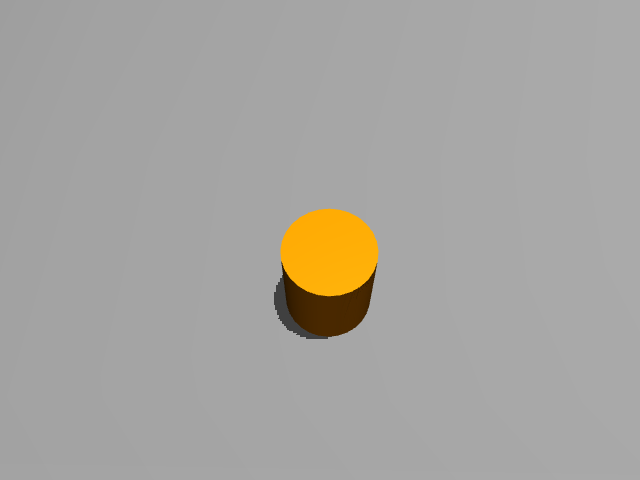
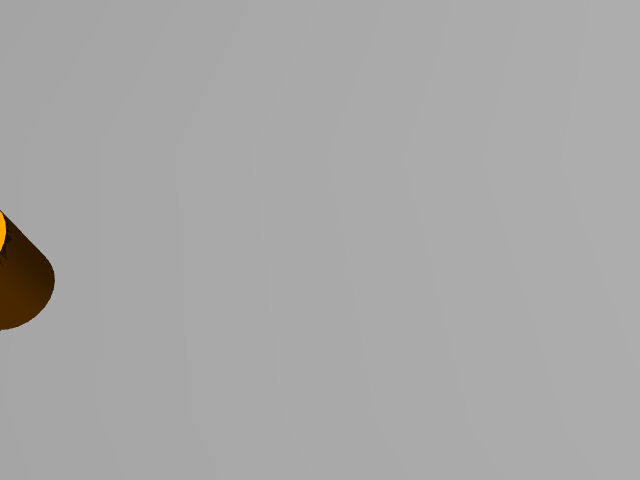
稍微改善了抖动问题，但还没完全解决

Changed region(s): [[0.4062, 0.4375, 0.5938, 0.7188], [0.0, 0.4375, 0.0938, 0.6875]]

diff --git a/custom_envs/scripts/navigation/navigate_mujoco.py b/custom_envs/scripts/navigation/navigate_mujoco.py
@@ -262,6 +262,13 @@ def main():
     _pos_w_at_scan   = None  # SCAN 完成时的机器人世界位置
     _quat_w_at_scan  = None  # SCAN 完成时的机器人四元数
     _pan_neg_x_goal  = None  # PAN_NEG_X 目标坐标
+    # PAN 平移统一平滑控制状态：用加速度限幅 + 停车滞回，避免 0↔最小步速来回跳。
+    _pan_ctrl_state   = None
+    _pan_cmd_vx       = 0.0
+    _pan_cmd_vy       = 0.0
+    _pan_cmd_wz       = 0.0
+    _pan_settling     = False
+    _pan_settle_count = 0
     _dest_goal_sent  = False # NAV2_DEST 是否已发送 goal
     _rotate_j_target = None  # ROTATE 目标关节角
     _rotate_j1_start = None
@@ -408,6 +415,87 @@ def main():
 
     def _yaw_err_to(target_yaw, current_yaw):
         return _wrap_angle(target_yaw - current_yaw)
+
+    # ── PAN 统一平滑速度控制 ──
+    # locomotion policy 在很小的非零速度附近容易在“站立/迈步”之间反复切换；旧代码又
+    # 直接把速度从 0 跳到 0.10m/s，因此会产生明显抖动。这里保留 0.10m/s 的有效步速，
+    # 但通过命令斜坡(slew-rate)平滑进出，并用 settling 滞回防止目标附近反复重启。
+    _PAN_MIN_MOVE_SPEED = 0.10       # m/s；真正移动时不长期停留在更低的不稳定步速
+    _PAN_DV_PER_STEP    = 0.012      # m/s per policy step；约0.6m/s^2（dt≈20ms）
+    _PAN_DW_PER_STEP    = 0.040      # rad/s per policy step；yaw保持也做斜坡
+    _PAN_YAW_KP         = 1.2
+    _PAN_YAW_MAX        = 0.35
+    _PAN_YAW_DEADBAND   = math.radians(1.0)
+    _PAN_SETTLE_SPEED   = 0.06       # m/s；底盘实际水平速度低于此值才允许切状态
+    _PAN_SETTLE_STEPS   = 8          # 连续稳定约0.16s后才切状态
+
+    def _slew(cur, target, max_delta):
+        return float(cur + np.clip(float(target) - float(cur), -max_delta, max_delta))
+
+    def _pan_axis_control(
+        pan_state, world_err, body_axis, body_sign, target_yaw,
+        pos_tol, resume_tol, kp, vmax, yaw_now, base_lin_vel,
+    ):
+        """统一 PAN 控制。
+
+        world_err  = 世界坐标目标 - 当前坐标（只传本阶段控制的那一轴）
+        body_axis  = 'vx' 或 'vy'
+        body_sign  = 世界正方向速度映射到该 body cmd 的符号
+        settling   = 一旦进入 pos_tol 就只减速停车；除非漂出更大的 resume_tol 才重新走，
+                     从而避免目标附近 0 ↔ 0.10m/s 抖动。
+        """
+        nonlocal _pan_ctrl_state, _pan_cmd_vx, _pan_cmd_vy, _pan_cmd_wz
+        nonlocal _pan_settling, _pan_settle_count
+
+        if _pan_ctrl_state != pan_state:
+            _pan_ctrl_state = pan_state
+            _pan_cmd_vx = 0.0
+            _pan_cmd_vy = 0.0
+            _pan_cmd_wz = 0.0
+            _pan_settling = False
+            _pan_settle_count = 0
+
+        ae = abs(float(world_err))
+        if _pan_settling:
+            # 只有明显漂出更宽的滞回区才重新起步，防止一步一停。
+            if ae > float(resume_tol):
+                _pan_settling = False
+                _pan_settle_count = 0
+        elif ae <= float(pos_tol):
+            _pan_settling = True
+            _pan_settle_count = 0
+
+        if _pan_settling:
+            axis_target = 0.0
+        else:
+            mag = min(float(vmax), max(_PAN_MIN_MOVE_SPEED, float(kp) * ae))
+            world_v_target = math.copysign(mag, float(world_err))
+            axis_target = float(body_sign) * world_v_target
+
+        vx_target = axis_target if body_axis == 'vx' else 0.0
+        vy_target = axis_target if body_axis == 'vy' else 0.0
+        _pan_cmd_vx = _slew(_pan_cmd_vx, vx_target, _PAN_DV_PER_STEP)
+        _pan_cmd_vy = _slew(_pan_cmd_vy, vy_target, _PAN_DV_PER_STEP)
+
+        yaw_err = _yaw_err_to(float(target_yaw), float(yaw_now))
+        if abs(yaw_err) <= _PAN_YAW_DEADBAND:
+            wz_target = 0.0
+        else:
+            wz_target = float(np.clip(_PAN_YAW_KP * yaw_err,
+                                      -_PAN_YAW_MAX, _PAN_YAW_MAX))
+        _pan_cmd_wz = _slew(_pan_cmd_wz, wz_target, _PAN_DW_PER_STEP)
+
+        _vxy = float(np.linalg.norm(np.asarray(base_lin_vel, dtype=np.float64)[:2]))
+        if (_pan_settling and _vxy <= _PAN_SETTLE_SPEED
+                and abs(yaw_err) <= math.radians(3.0)):
+            _pan_settle_count += 1
+        else:
+            _pan_settle_count = 0
+        done = (_pan_settle_count >= _PAN_SETTLE_STEPS)
+
+        return (_pan_cmd_vx, _pan_cmd_vy, _pan_cmd_wz, done,
+                dict(err=ae, vxy=_vxy, yaw_err=yaw_err,
+                     settling=_pan_settling, settle_count=_pan_settle_count))
 
     def _arm_step(q6):
         """设置机械臂目标角（6维）。"""
@@ -1095,105 +1183,92 @@ def main():
                 cmd_vx = 0.0; cmd_vy = 0.0
                 cmd_wz = float(np.clip(2.0 * err, -1.2, 1.2))
                 if abs(err) < 0.05:
-                    state = PipelineState.PAN_VY
+                    state = PipelineState.PAN_VX
                     state_step = 0
                     print("[MJ] ALIGN_YAW_1 done -> PAN_VX")
 
             elif state == PipelineState.PAN_VX:
-                # PD 控制：精调机器人 Y 方向位置（朝向 -Y 时 vx 对应世界 -Y 运动，需取反）
+                # 世界 Y 精调。机器人已由 ALIGN_YAW_1 对齐到 +Y，因此 body vx 与 world +Y 同向。
                 _dy_w = float(args.goal[1]) - float(pos_w[1])
-                _dy_err = abs(_dy_w)
+                cmd_vx, cmd_vy, cmd_wz, _pan_done, _pd = _pan_axis_control(
+                    PipelineState.PAN_VX, _dy_w, 'vx', +1.0, math.pi / 2,
+                    pos_tol=0.08, resume_tol=0.16, kp=0.8, vmax=0.25,
+                    yaw_now=yaw, base_lin_vel=rs["lin_vel"])
                 if state_step == 1:
-                    print(f"[SM] PAN_VX start dy_err={_dy_err:.3f}m", flush=True)
-                if state_step % 50 == 0:
-                    print(f"[SM] PAN_VX step {state_step}: dy_err={_dy_err:.3f}m", flush=True)
-                _v_cap = float(np.clip(0.4 * _dy_err, 0.0, 0.3))
-                if _v_cap < 0.10:  # 死区：速度过小时停止，避免 policy 步态不稳
-                    _v_cap = 0.0
-                # 面向+Y时 cmd_vx>0 => 世界y增大，同向
-                cmd_vx = float(np.clip(math.copysign(_v_cap, _dy_w), -0.3, 0.15))
-                cmd_vy = 0.0; cmd_wz = 0.0
+                    print(f"[SM] PAN_VX start dy_err={_pd['err']:.3f}m", flush=True)
+                if state_step % 25 == 0:
+                    print(f"[SM] PAN_VX step {state_step}: dy_err={_pd['err']:.3f}m "
+                          f"cmd=({cmd_vx:+.3f},{cmd_vy:+.3f},{cmd_wz:+.3f}) "
+                          f"vxy={_pd['vxy']:.3f} settling={int(_pd['settling'])} "
+                          f"settle={_pd['settle_count']}/{_PAN_SETTLE_STEPS}", flush=True)
                 state_step += 1
-                if _dy_err < 0.10 or state_step >= 400:
-                    print("[SM] PAN_VX done -> PAN_VY", flush=True)
+                if _pan_done or state_step >= 500:
+                    _why = "settled" if _pan_done else "timeout"
+                    print(f"[SM] PAN_VX done ({_why}) -> PAN_VY", flush=True)
                     state = PipelineState.PAN_VY
                     state_step = 0
 
             elif state == PipelineState.PAN_VY:
-                # PD 控制：精调机器人 X 方向位置（朝向 -Y 时 vy>0 => 世界+X，故同向）
-                # X 目标在 goal_x 基础上偏移 +0.5m（让机器人站在桌子侧面合适位置）
+                # 世界 X 精调：目标为 goal_x+0.5m。朝 +Y 时 body +vy(左移) = world -X，故符号取反。
                 _dx_w = float(args.goal[0]) + 0.5 - float(pos_w[0])
-                _dx_err = abs(_dx_w)
+                cmd_vx, cmd_vy, cmd_wz, _pan_done, _pd = _pan_axis_control(
+                    PipelineState.PAN_VY, _dx_w, 'vy', -1.0, math.pi / 2,
+                    pos_tol=0.10, resume_tol=0.20, kp=1.0, vmax=0.25,
+                    yaw_now=yaw, base_lin_vel=rs["lin_vel"])
                 if state_step == 1:
-                    print(f"[SM] PAN_VY start dx_err={_dx_err:.3f}m", flush=True)
-                if state_step % 50 == 0:
-                    print(f"[SM] PAN_VY step {state_step}: dx_err={_dx_err:.3f}m", flush=True)
-                _v_cap = float(np.clip(2.0 * _dx_err, 0.0, 0.3))
-                if _v_cap < 0.10:  # 死区：速度过小时停止，避免 policy 步态不稳
-                    _v_cap = 0.0
-                cmd_vx = 0.0
-                # 面向+Y时 cmd_vy>0 => 机器人左移 => 世界x减小，故取反
-                cmd_vy = float(np.clip(-math.copysign(_v_cap, _dx_w), -0.3, 0.15))
-                cmd_wz = 0.0
+                    print(f"[SM] PAN_VY start dx_err={_pd['err']:.3f}m", flush=True)
+                if state_step % 25 == 0:
+                    print(f"[SM] PAN_VY step {state_step}: dx_err={_pd['err']:.3f}m "
+                          f"cmd=({cmd_vx:+.3f},{cmd_vy:+.3f},{cmd_wz:+.3f}) "
+                          f"vxy={_pd['vxy']:.3f} settling={int(_pd['settling'])} "
+                          f"settle={_pd['settle_count']}/{_PAN_SETTLE_STEPS}", flush=True)
                 state_step += 1
-                if _dx_err < 0.12 or state_step >= 400:
-                    # ── 临时方案（2026-09-16）：跳过 PAN_VX_FINAL / ALIGN_YAW ──
-                    # 运控小速度指令抖动问题解决前，不再用速度指令做末段精调：
-                    #   x 保持 PAN_VY 结束时的值（被桌子挡住，已达物理可达位置）；
-                    #   y 直接瞬移到目标 goal_y；朝向一步对齐到 yaw=+π/2（直立）。
-                    # 注意：瞬移不符合物理实际，仅为绕过运控问题；修复运控后删除本块，
-                    # 恢复原流程 "PAN_VY -> PAN_VX_FINAL -> ALIGN_YAW -> ARM_INIT"。
-                    cmd_vx = 0.0; cmd_vy = 0.0; cmd_wz = 0.0
-                    _snap_pos = pos_w.copy()
-                    _snap_pos[1] = float(args.goal[1])        # y -> 目标位置（x/z 保持不变）
-                    _snap_quat = np.array(
-                        [math.cos(math.pi / 4), 0.0, 0.0, math.sin(math.pi / 4)],
-                        dtype=np.float64)                     # yaw=+π/2 直立四元数 (w,x,y,z)
-                    env.set_root_pose(_snap_pos, _snap_quat)  # 瞬移 base + 清零速度
-                    _frozen_pos  = _snap_pos.copy()           # 补上 ALIGN_YAW 原本保存的 FREEZE 锚点
-                    _frozen_quat = _snap_quat.copy()
-                    print(f"[SM] PAN_VY done -> SNAP {np.round(pos_w,3)} -> "
-                          f"{np.round(_snap_pos,3)} -> ARM_INIT", flush=True)
+                if _pan_done or state_step >= 500:
+                    _why = "settled" if _pan_done else "timeout"
+                    # 旧版因 PAN 抖动临时用 set_root_pose() 把 y 瞬移到目标；现在恢复物理精调流程。
+                    print(f"[SM] PAN_VY done ({_why}) -> PAN_VX_FINAL", flush=True)
                     state = PipelineState.ARM_INIT
                     state_step = 0
 
-            elif state == PipelineState.PAN_VX_FINAL:
-                # PAN_VY 之后的 Y 方向补正，消除侧移耦合引入的 Y 误差
-                _dy_w = float(args.goal[1]) - float(pos_w[1])
-                _dy_err = abs(_dy_w)
-                if state_step == 1:
-                    print(f"[SM] PAN_VX_FINAL start dy_err={_dy_err:.3f}m", flush=True)
-                if state_step % 50 == 0:
-                    print(f"[SM] PAN_VX_FINAL step {state_step}: dy_err={_dy_err:.3f}m", flush=True)
-                _v_cap = float(np.clip(0.4 * _dy_err, 0.0, 0.3))
-                if _v_cap < 0.10:  # 死区：速度过小时停止，避免 policy 步态不稳
-                    _v_cap = 0.1
-                cmd_vx = float(np.clip(math.copysign(_v_cap, _dy_w), -0.3, 0.15))
-                cmd_vy = 0.0; cmd_wz = 0.0
-                state_step += 1
-                if _dy_err < 0.10 or state_step >= 200:
-                    print("[SM] PAN_VX_FINAL done -> ALIGN_YAW", flush=True)
-                    state = PipelineState.ALIGN_YAW
-                    state_step = 0
+            # elif state == PipelineState.PAN_VX_FINAL:
+            #     # 侧移后再次补正世界 Y，消除 PAN_VY 产生的耦合误差。
+            #     _dy_w = float(args.goal[1]) - float(pos_w[1])
+            #     cmd_vx, cmd_vy, cmd_wz, _pan_done, _pd = _pan_axis_control(
+            #         PipelineState.PAN_VX_FINAL, _dy_w, 'vx', +1.0, math.pi / 2,
+            #         pos_tol=0.06, resume_tol=0.14, kp=0.8, vmax=0.22,
+            #         yaw_now=yaw, base_lin_vel=rs["lin_vel"])
+            #     if state_step == 1:
+            #         print(f"[SM] PAN_VX_FINAL start dy_err={_pd['err']:.3f}m", flush=True)
+            #     if state_step % 25 == 0:
+            #         print(f"[SM] PAN_VX_FINAL step {state_step}: dy_err={_pd['err']:.3f}m "
+            #               f"cmd=({cmd_vx:+.3f},{cmd_vy:+.3f},{cmd_wz:+.3f}) "
+            #               f"vxy={_pd['vxy']:.3f} settling={int(_pd['settling'])} "
+            #               f"settle={_pd['settle_count']}/{_PAN_SETTLE_STEPS}", flush=True)
+            #     state_step += 1
+            #     if _pan_done or state_step >= 350:
+            #         _why = "settled" if _pan_done else "timeout"
+            #         print(f"[SM] PAN_VX_FINAL done ({_why}) -> ALIGN_YAW", flush=True)
+            #         state = PipelineState.ALIGN_YAW
+            #         state_step = 0
 
-            elif state == PipelineState.ALIGN_YAW:
-                # 对齐到 +Y 方向（yaw = +π/2），面向桌子，然后进入 ARM_INIT
-                _yaw_err_align = _yaw_err_to(math.pi / 2, yaw)
-                if state_step == 1:
-                    print(f"[SM] ALIGN_YAW start: cur={math.degrees(yaw):.1f}deg", flush=True)
-                if state_step % 50 == 0:
-                    print(f"[SM] ALIGN_YAW step {state_step}: "
-                          f"err={math.degrees(_yaw_err_align):.1f}deg", flush=True)
-                cmd_vx = 0.0; cmd_vy = 0.0
-                cmd_wz = float(np.clip(100.0 * _yaw_err_align, -1.2, 1.2))
-                state_step += 1
-                if abs(_yaw_err_align) < 0.02 or state_step >= 600:
-                    print("[SM] ALIGN_YAW done -> ARM_INIT", flush=True)
-                    # 保存 FREEZE 锚点
-                    _frozen_pos  = pos_w.copy()
-                    _frozen_quat = quat_w.copy()
-                    state = PipelineState.ARM_INIT
-                    state_step = 0
+            # elif state == PipelineState.ALIGN_YAW:
+            #     # 对齐到 +Y 方向（yaw = +π/2），面向桌子，然后进入 ARM_INIT
+            #     _yaw_err_align = _yaw_err_to(math.pi / 2, yaw)
+            #     if state_step == 1:
+            #         print(f"[SM] ALIGN_YAW start: cur={math.degrees(yaw):.1f}deg", flush=True)
+            #     if state_step % 50 == 0:
+            #         print(f"[SM] ALIGN_YAW step {state_step}: "
+            #               f"err={math.degrees(_yaw_err_align):.1f}deg", flush=True)
+            #     cmd_vx = 0.0; cmd_vy = 0.0
+            #     cmd_wz = float(np.clip(100.0 * _yaw_err_align, -1.2, 1.2))
+            #     state_step += 1
+            #     if abs(_yaw_err_align) < 0.02 or state_step >= 600:
+            #         print("[SM] ALIGN_YAW done -> ARM_INIT", flush=True)
+            #         # 保存 FREEZE 锚点
+            #         _frozen_pos  = pos_w.copy()
+            #         _frozen_quat = quat_w.copy()
+            #         state = PipelineState.ARM_INIT
+            #         state_step = 0
 
             elif state == PipelineState.ARM_INIT:
                 # 机械臂插值到 ARM_SIDE_ANGLES，同时 FREEZE 根节点位姿。
@@ -2508,20 +2583,27 @@ def main():
                         state_step = 0
 
             elif state == PipelineState.PAN_NEG_X:
-                # PD 移动到 (pos[0]-0.5, pos[1]) 准备导航回放置点
-                _px_goal = pos_w[0] - 0.5
+                # LIFT 后先沿世界 -X 平移约 0.5m，再交给 Nav2。
+                # 当前朝向约 +Y：body +vy = world -X，因此 world-X 误差映射到 vy 时取反。
                 if _pan_neg_x_goal is None:
-                    _pan_neg_x_goal = _px_goal
-                _px_err = abs(pos_w[0] - _pan_neg_x_goal)
-                _pxv = float(np.clip(2.0 * (pos_w[0] - _pan_neg_x_goal), -0.3, 0.3))
-                cmd_vx = 0.0; cmd_vy = _pxv; cmd_wz = 0.0
+                    _pan_neg_x_goal = float(pos_w[0]) - 0.5
+                    print(f"[SM] PAN_NEG_X start: x={pos_w[0]:.3f} -> "
+                          f"goal={_pan_neg_x_goal:.3f} (-0.5m)", flush=True)
+                _px_w = float(_pan_neg_x_goal) - float(pos_w[0])
+                cmd_vx, cmd_vy, cmd_wz, _pan_done, _pd = _pan_axis_control(
+                    PipelineState.PAN_NEG_X, _px_w, 'vy', -1.0, math.pi / 2,
+                    pos_tol=0.03, resume_tol=0.08, kp=1.0, vmax=0.25,
+                    yaw_now=yaw, base_lin_vel=rs["lin_vel"])
                 _gripper_step(close=True)
-                if state_step % 50 == 0:
-                    print(f"[SM] PAN_NEG_X step {state_step}: "
-                          f"px_err={_px_err:.3f}m", flush=True)
+                if state_step % 25 == 0:
+                    print(f"[SM] PAN_NEG_X step {state_step}: px_err={_pd['err']:.3f}m "
+                          f"cmd=({cmd_vx:+.3f},{cmd_vy:+.3f},{cmd_wz:+.3f}) "
+                          f"vxy={_pd['vxy']:.3f} settling={int(_pd['settling'])} "
+                          f"settle={_pd['settle_count']}/{_PAN_SETTLE_STEPS}", flush=True)
                 state_step += 1
-                if _px_err < 0.2 or state_step >= 300:
-                    print("[SM] PAN_NEG_X done -> NAV2_DEST", flush=True)
+                if _pan_done or state_step >= 450:
+                    _why = "settled" if _pan_done else "timeout"
+                    print(f"[SM] PAN_NEG_X done ({_why}) -> NAV2_DEST", flush=True)
                     _pan_neg_x_goal = None
                     state = PipelineState.NAV2_DEST
                     state_step = 0
@@ -2560,18 +2642,24 @@ def main():
                     state_step = 0
 
             elif state == PipelineState.PAN_DES_X:
-                # 精调 X 位置到目标放置坐标的 X 方向
-                _pdx_err = float(args.destination[0]) - float(pos_w[0])
-                _pdx_abs = abs(_pdx_err)
-                _pdxv = float(np.clip(2.0 * _pdx_err, -0.3, 0.3))
-                cmd_vx = 0.0; cmd_vy = _pdxv; cmd_wz = 0.0
+                # 第二张桌前精调世界 X。此时 ALIGN_YAW_2 已对齐到 -Y；body +vy = world +X。
+                _pdx_w = float(args.destination[0]) - float(pos_w[0])
+                cmd_vx, cmd_vy, cmd_wz, _pan_done, _pd = _pan_axis_control(
+                    PipelineState.PAN_DES_X, _pdx_w, 'vy', +1.0, -math.pi / 2,
+                    pos_tol=0.08, resume_tol=0.16, kp=1.0, vmax=0.25,
+                    yaw_now=yaw, base_lin_vel=rs["lin_vel"])
                 _gripper_step(close=True)
-                if state_step % 50 == 0:
-                    print(f"[SM] PAN_DES_X step {state_step}: "
-                          f"dx_err={_pdx_abs:.3f}m", flush=True)
+                if state_step == 1:
+                    print(f"[SM] PAN_DES_X start dx_err={_pd['err']:.3f}m", flush=True)
+                if state_step % 25 == 0:
+                    print(f"[SM] PAN_DES_X step {state_step}: dx_err={_pd['err']:.3f}m "
+                          f"cmd=({cmd_vx:+.3f},{cmd_vy:+.3f},{cmd_wz:+.3f}) "
+                          f"vxy={_pd['vxy']:.3f} settling={int(_pd['settling'])} "
+                          f"settle={_pd['settle_count']}/{_PAN_SETTLE_STEPS}", flush=True)
                 state_step += 1
-                if _pdx_abs < 0.1 or state_step >= 400:
-                    print("[SM] PAN_DES_X done -> ROTATE", flush=True)
+                if _pan_done or state_step >= 500:
+                    _why = "settled" if _pan_done else "timeout"
+                    print(f"[SM] PAN_DES_X done ({_why}) -> ROTATE", flush=True)
                     _rotate_j1_start = _get_arm_q(jpos)[0]
                     _rotate_j2_start = _get_arm_q(jpos)[1]
                     _rotate_j3_start = _get_arm_q(jpos)[2]

diff --git a/custom_envs/README.md b/custom_envs/README.md
@@ -49,6 +49,6 @@ python custom_envs/scripts/navigation/navigate_to_goal_nav2.py     --task      F
 
 python custom_envs/scripts/navigation/navigate_to_goal_nav2_whole.py     --task      Flat-Deeprobotics-M20Pro-Piper-TwoTables-v0    --policy_task Flat-Deeprobotics-M20-v0     --load_run  2026-07-18_10-57-32     --checkpoint model_4999.pt     --map       custom_envs/maps/map_whole.npz     --goal      4.5 5.0     --grasp_checkpoint /home/mojie/anygrasp_sdk/grasp_detection/log/checkpoint_detection.tar  --object banana --destination 7.45 6.0
 
-python custom_envs/scripts/navigation/navigate_mujoco.py     --policy_path  deps/rl_training/logs/rsl_rl/deeprobotics_m20_flat/2026-07-18_10-57-32/model_4999.pt     --map          custom_envs/maps/map_whole.npz     --goal         4.0 6.0     --grasp_checkpoint /home/mojie/anygrasp_sdk/grasp_detection/log/checkpoint_detection.tar     --object      cube     --destination  7.45 6.0     --render
+python custom_envs/scripts/navigation/navigate_mujoco.py     --policy_path  deps/rl_training/logs/rsl_rl/deeprobotics_m20_flat/2026-07-18_10-57-32/model_4999.pt     --map          custom_envs/maps/map_whole.npz     --goal         4.0 5.5     --grasp_checkpoint /home/mojie/anygrasp_sdk/grasp_detection/log/checkpoint_detection.tar     --object      bowl     --destination  7.5 5.8     --render
 
 ```
